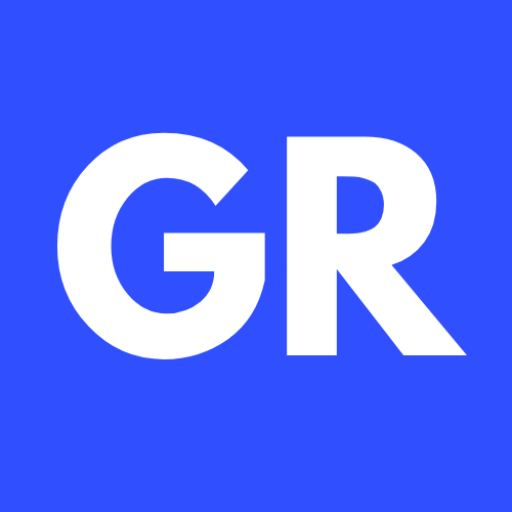
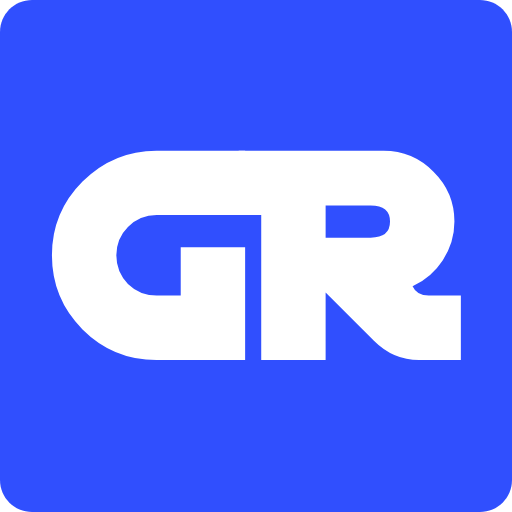
feat: major restyling

diff --git a/components/Navbar.vue b/components/Navbar.vue
@@ -1,23 +1,22 @@
 <template>
   <div class="relative">
-    <nav class="z-50 top-0 left-0 right-0">
-      <div class="max-w-screen-xl flex flex-wrap items-center mx-auto py-4 md:py-8 px-2">
-        <div class="grow">
-          <a href="/" class="flex items-center">
+    <nav class="z-50 top-0 left-0 right-0 border-b dark:border-gray-800">
+      <div class="max-w-screen-lg flex flex-wrap items-center mx-auto py-4 px-4">
+        <div class="">
+          <a href="/" class="flex items-center rounded bg-mine hover:bg-mine-tonal">
             <div
               id="logo"
               class="flex flex-row self-center"
               >
                 <img
-                src="~/assets/img/gr_icon.png"
+                src="~/assets/img/gr.png"
                 alt="Guilherme Raduenz"
-                class="rounded h-auto w-8 mr-4"
+                class="h-auto w-10"
                 />
-                <span class="pt-0.5 text-xl font-secondary font-bold whitespace-nowrap dark:text-white">
-                  Guilherme Raduenz
-                </span>
               </div>
           </a>
+        </div>
+        <div class="grow">
         </div>
         <div class="inline-flex md:hidden">
           <ThemeToggleButton />
@@ -67,7 +66,7 @@
 
 <script setup lang="ts">
 const menu = [
-  ['Home', '/'],
+  ['Blog', '/'],
   ['About', '/about'],
 ].map(arr => ({
   label: arr[0],

diff --git a/components/StickyFooter.vue b/components/StickyFooter.vue
@@ -1,11 +1,12 @@
 <template>
-  <div class="max-w-screen-xl mx-auto mt-8 py-8 px-2">
-    <div class="flex flex-col md:flex-row text-center md:text-left space-y-4 md:space-y-0 mx-auto">
+  <div class="mx-auto mt-8 py-16 px-2 border-t dark:border-gray-800">
+    <div class="max-w-screen-lg flex flex-col md:flex-row text-center md:text-left space-y-4 md:space-y-0 mx-auto">
       <div class="grow">
-        <p class="text-sm text-gray-500">
+        <p class="prose dark:prose-invert text-sm">
           <b>Guilherme Raduenz</b>
           &copy;
-          {{ new Date().getUTCFullYear() }} &horbar; Designed and coded by myself.
+          {{ new Date().getUTCFullYear() }}
+          &horbar; Built in public, <a href="https://github.com/graduenz/rdnz-dev">here</a>.
         </p>
       </div>
       <Social />

diff --git a/components/Article.vue b/components/Article.vue
@@ -1,11 +1,9 @@
 <template>
   <div
-    class="max-w-screen-xl md:w-[650px] mx-auto mt-8 px-4 pb-0 md:pb-8">
+    class="max-w-screen-lg md:w-[650px] mx-auto mt-8 px-4 pb-0 md:pb-8">
     <div class="flex flex-col space-y-8">
       <div class="text-5xl md:text-6xl font-extrabold dark:text-gray-100">
-        <a :href="article.uid">
-          {{ article.data.title }}
-        </a>
+        {{ article.data.title }}
       </div>
       <div class="flex flex-row text-gray-500 space-x-4">
       <div class="flex flex-row space-x-2">

diff --git a/components/ArticleList.vue b/components/ArticleList.vue
@@ -1,10 +1,10 @@
 <template>
   <div
-    class="max-w-screen-xl md:w-[650px] flex flex-col space-y-8 mx-auto px-4 pb-0 md:pb-8">
+    class="max-w-screen-lg md:w-[650px] flex flex-col space-y-8 mx-auto px-4 pb-0 md:pb-8">
     <h1
-      class="scroll-m-16 pt-8 text-5xl md:text-6xl font-extrabold whitespace-nowrap dark:text-gray-100"
+      class="scroll-m-16 pt-8 text-5xl font-extrabold whitespace-nowrap dark:text-gray-100"
       >
-      Posts
+      Blog
     </h1>
     <ArticleListItem
       v-for="article in documents"

diff --git a/components/Section.vue b/components/Section.vue
@@ -1,8 +1,8 @@
 <template>
-  <div class="max-w-screen-xl md:w-[650px] mx-auto px-4 pb-0 md:pb-8">
+  <div class="max-w-screen-lg md:w-[650px] mx-auto px-4 pb-0 md:pb-8">
     <h1
       :id="name"
-      class="scroll-m-16 pb-8 pt-8 text-5xl md:text-6xl font-extrabold whitespace-nowrap dark:text-gray-100"
+      class="scroll-m-16 pb-8 pt-8 text-5xl font-extrabold whitespace-nowrap dark:text-gray-100"
       >
       {{ name }}
     </h1>

diff --git a/components/ThemeToggleButton.vue b/components/ThemeToggleButton.vue
@@ -1,6 +1,6 @@
 <template>
   <span
-    class="cursor-pointer block px-4 py-2 text-gray-500 rounded md:border-0 hover:text-black dark:hover:text-white md:p-0 transition-all"
+    class="cursor-pointer block text-gray-500 px-2 md:px-0 pt-0.5 rounded md:border-0 hover:text-black dark:hover:text-white transition-all"
     @click="toggleTheme"
     >
     <SunIcon

diff --git a/tailwind.config.js b/tailwind.config.js
@@ -17,7 +17,6 @@ module.exports = {
     extend: {
       fontFamily: {
         'sans': ['Inter', ...defaultTheme.fontFamily.sans],
-        'secondary': ['"Poppins"', ...defaultTheme.fontFamily.sans],
       },
       colors: {
         'mine': '#304ffe',

diff --git a/layouts/default.vue b/layouts/default.vue
@@ -3,7 +3,7 @@
     <header>
       <Navbar />
     </header>
-    <main class="mb-auto">
+    <main class="mb-auto md:py-16 bg-gradient-to-t from-white to-gray-50 dark:from-gray-950 dark:to-gray-900">
       <slot />
     </main>
     <footer>

diff --git a/slices/Text/index.vue b/slices/Text/index.vue
@@ -5,7 +5,7 @@
   >
     <PrismicRichText
       :field="slice.primary.text"
-      class="prose prose-lg text-justify dark:prose-invert"
+      class="prose prose-lg dark:prose-invert"
       />
   </div>
 </template>

diff --git a/slices/Project/index.vue b/slices/Project/index.vue
@@ -31,6 +31,7 @@
         <a
           v-if="slice.primary.project_url"
           :href="slice.primary.project_url"
+          class="pt-1"
           >
           <LinkIcon class="w-4 h-4" />
         </a>

diff --git a/pages/index.vue b/pages/index.vue
@@ -1,6 +1,6 @@
 <template>
   <Head>
-    <Title>Guilherme Raduenz</Title>
+    <Title>Blog &horbar; Guilherme Raduenz</Title>
   </Head>
   <ArticleList />
 </template>

diff --git a/assets/css/main.css b/assets/css/main.css
@@ -9,5 +9,5 @@ body {
 }
 
 html.dark body {
-  background-color: #111827;
+  background-color: #030712;
 }
